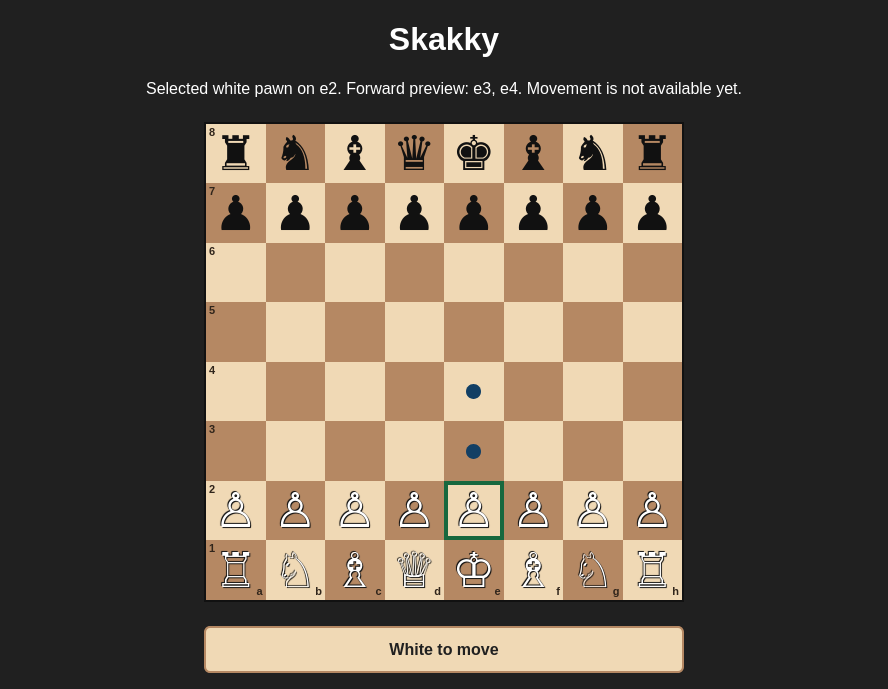
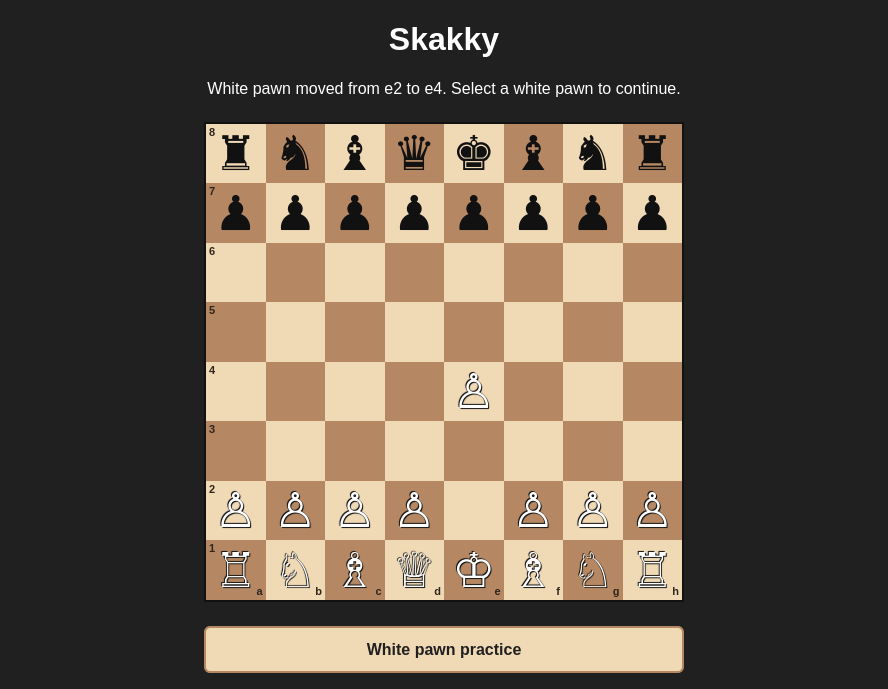
Allow white pawns to advance to highlighted squares

diff --git a/script.js b/script.js
@@ -1,6 +1,6 @@
 const board = document.getElementById("board");
 const status = document.getElementById("status");
-const initialStatus = "Select a white piece. Movement is not available yet.";
+const initialStatus = "Select a white pawn, then choose a blue-dot square to move.";
 let selectedSquare = null;
 
 // Uppercase letters represent White; lowercase letters represent Black.
@@ -14,6 +14,9 @@ const startingPosition = [
     ["P", "P", "P", "P", "P", "P", "P", "P"],
     ["R", "N", "B", "Q", "K", "B", "N", "R"]
 ];
+
+// Preserve the starting layout while the current position changes.
+const currentPosition = startingPosition.map(row => row.slice());
 
 const pieceSymbols = {
     r: "♜", n: "♞", b: "♝", q: "♛", k: "♚", p: "♟",
@@ -35,7 +38,7 @@ function getWhitePawnAdvances(row, column) {
     const advances = [];
     const nextRow = row - 1;
 
-    if (nextRow < 0 || startingPosition[nextRow][column] !== "") {
+    if (nextRow < 0 || currentPosition[nextRow][column] !== "") {
         return advances;
     }
 
@@ -43,7 +46,7 @@ function getWhitePawnAdvances(row, column) {
     advances.push(`${files[column]}${nextRank}`);
 
     // A pawn can advance two squares from rank 2 only if both are empty.
-    if (row === 6 && startingPosition[row - 2][column] === "") {
+    if (row === 6 && currentPosition[row - 2][column] === "") {
         advances.push(`${files[column]}${nextRank + 1}`);
     }
 
@@ -59,6 +62,8 @@ function clearSelection() {
 
     for (const square of board.querySelectorAll(".pawn-advance")) {
         square.classList.remove("pawn-advance");
+        square.disabled = true;
+        square.setAttribute("aria-label", `Empty square ${square.dataset.position}`);
     }
 
     status.textContent = initialStatus;
@@ -84,14 +89,43 @@ function selectPiece(square, piece, row, column) {
         for (const position of advances) {
             const destination = board.querySelector(`[data-position="${position}"]`);
             destination.classList.add("pawn-advance");
+            destination.disabled = false;
+            destination.setAttribute("aria-label", `Move white pawn from ${square.dataset.position} to ${position}`);
         }
 
         message += advances.length > 0
-            ? ` Forward preview: ${advances.join(", ")}.`
+            ? ` Forward squares: ${advances.join(", ")}. Choose a blue-dot square to move.`
             : " No forward squares available.";
+    } else {
+        message += " Movement for this piece is not available yet.";
     }
 
-    status.textContent = `${message} Movement is not available yet.`;
+    status.textContent = message;
+}
+
+function moveWhitePawn(row, column) {
+    if (selectedSquare === null) {
+        return false;
+    }
+
+    const fromPosition = selectedSquare.dataset.position;
+    const fromColumn = files.indexOf(fromPosition[0]);
+    const fromRow = 8 - Number(fromPosition[1]);
+    const toPosition = `${files[column]}${8 - row}`;
+
+    if (currentPosition[fromRow][fromColumn] !== "P"
+        || !getWhitePawnAdvances(fromRow, fromColumn).includes(toPosition)) {
+        return false;
+    }
+
+    currentPosition[fromRow][fromColumn] = "";
+    currentPosition[row][column] = "P";
+    renderBoard();
+
+    const movedPawn = board.querySelector(`[data-position="${toPosition}"]`);
+    movedPawn.focus();
+    status.textContent = `White pawn moved from ${fromPosition} to ${toPosition}. Select a white pawn to continue.`;
+    return true;
 }
 
 function renderBoard() {
@@ -100,15 +134,19 @@ function renderBoard() {
 
     for (let row = 0; row < 8; row++) {
         for (let column = 0; column < 8; column++) {
-            const piece = startingPosition[row][column];
+            const piece = currentPosition[row][column];
             const isWhitePiece = piece !== "" && piece === piece.toUpperCase();
-            const square = document.createElement(isWhitePiece ? "button" : "div");
+            const square = document.createElement(isWhitePiece || piece === "" ? "button" : "div");
             square.classList.add("square");
 
             if (isWhitePiece) {
                 square.type = "button";
                 square.setAttribute("aria-pressed", "false");
                 square.addEventListener("click", () => selectPiece(square, piece, row, column));
+            } else if (piece === "") {
+                square.type = "button";
+                square.disabled = true;
+                square.addEventListener("click", () => moveWhitePawn(row, column));
             }
 
             const color = (row + column) % 2 === 0 ? "light" : "dark";
@@ -119,6 +157,10 @@ function renderBoard() {
             const position = `${files[column]}${rank}`;
             square.dataset.position = position;
             square.title = position;
+
+            if (piece === "") {
+                square.setAttribute("aria-label", `Empty square ${position}`);
+            }
 
             if (column === 0) {
                 const rankLabel = document.createElement("span");
@@ -163,7 +205,12 @@ function renderBoard() {
 
 board.addEventListener("keydown", (event) => {
     if (event.key === "Escape") {
+        const previousSelection = selectedSquare;
         clearSelection();
+
+        if (previousSelection !== null) {
+            previousSelection.focus();
+        }
     }
 });
 

diff --git a/index.html b/index.html
@@ -10,7 +10,7 @@
 <body>
     <h1>Skakky</h1>
     <p id="status" role="status"></p>
-    <div id="board" role="group" aria-label="Chessboard in the starting position"></div>
-    <p id="turn" role="status">White to move</p>
+    <div id="board" role="group" aria-label="Chessboard"></div>
+    <p id="turn" role="status">White pawn practice</p>
 </body>
 </html>

diff --git a/style.css b/style.css
@@ -43,7 +43,15 @@ body {
 
 button.square {
     appearance: none;
+}
+
+button.square:enabled {
     cursor: pointer;
+}
+
+button.square:disabled {
+    cursor: default;
+    opacity: 1;
 }
 
 button.square:focus-visible {

diff --git a/README.md b/README.md
@@ -1,20 +1,21 @@
 # Skakky
 A personal chess project built with HTML, CSS and JavaScript, one small step at a time.
 
-![Skakky with the white pawn on e2 selected and forward previews on e3 and e4](docs/preview.png)
+![Skakky after advancing the white pawn from e2 to e4](docs/preview.png)
 
 ## Current progress
 
 - English page text and document language.
 - A responsive 8×8 chessboard with alternating light and dark squares.
-- All 32 pieces in their standard starting positions, with White at the bottom.
+- Starts with all 32 pieces in their standard positions, with White at the bottom.
 - File labels (`a`–`h`) and rank labels (`8`–`1`) along the board edges.
 - Unicode piece symbols with English accessible names that include their square coordinates.
-- A turn indicator showing `White to move` for the starting position.
+- A `White pawn practice` indicator while alternating turns are being developed.
 - A blue outline on hovered squares for devices with hover support, with reduced-motion preferences respected.
 - White pieces can be selected with a click, Enter or Space, with a green selection outline and an announced status message.
-- White pawns show a preview of their unobstructed forward squares, including the initial two-square advance.
-- Moving pieces, captures, turn changes and check validation are not implemented yet.
+- White pawns can advance to the blue-dot squares, including the initial two-square advance when both squares are empty.
+- The board updates after each move and keyboard focus follows the moved pawn.
+- Other piece movements, captures, turn changes, promotion and check validation are not implemented yet.
 
 ## Run locally
 
@@ -24,18 +25,21 @@ Hover over a square to see its coordinate, such as `a8` or `h1`, and a blue outl
 The blue outline is visual feedback only; it does not indicate a legal move.
 Click a white piece to select it, or use Tab to focus a white piece and press Enter or Space.
 The selected square has a green outline. Activate the same piece again or press Escape while focus is on the board to clear the selection.
-Selecting another white piece replaces the previous selection. Black pieces and empty squares are not selectable yet.
-For a white pawn, blue dots mark its forward preview and the status message lists the same coordinates.
-Both squares must be empty to preview the initial two-square advance. Pawn captures and king safety are not checked yet.
-Pieces stay in their starting positions; movement is not implemented yet.
-The turn indicator stays on White until move handling and turn changes are implemented.
+Selecting another white piece replaces the previous selection. Black pieces are not selectable yet.
+For a white pawn, blue dots mark its forward destinations and the status message lists the same coordinates.
+Click a blue-dot square to advance, or reach it with Tab or Shift+Tab and press Enter or Space.
+Empty squares are enabled only when they are available destinations for the selected pawn.
+Both squares must be empty for the initial two-square advance. After leaving rank 2, a pawn can advance only one square at a time.
+You can practice consecutive white pawn moves; alternating turns will be added later.
+Pawn captures, promotion and king safety are not checked yet. Reload the page to restore the starting position.
 Unicode piece shapes may vary slightly depending on the fonts installed on your system.
 
 ## Files
 
-- `index.html` defines the page structure and the turn indicator.
+- `index.html` defines the page structure and the practice indicator.
 - `style.css` defines the page layout and square colors.
-- `script.js` handles piece selection and pawn previews, and uses `renderBoard()` to create the 64 squares and display pieces from an 8×8 array.
+- `script.js` handles selection and white pawn advances using a mutable copy of the starting position.
+  It uses `renderBoard()` to create the 64 squares and display the current position.
   The function clears the previous squares before drawing the board again.
 
 ## Learning reference
